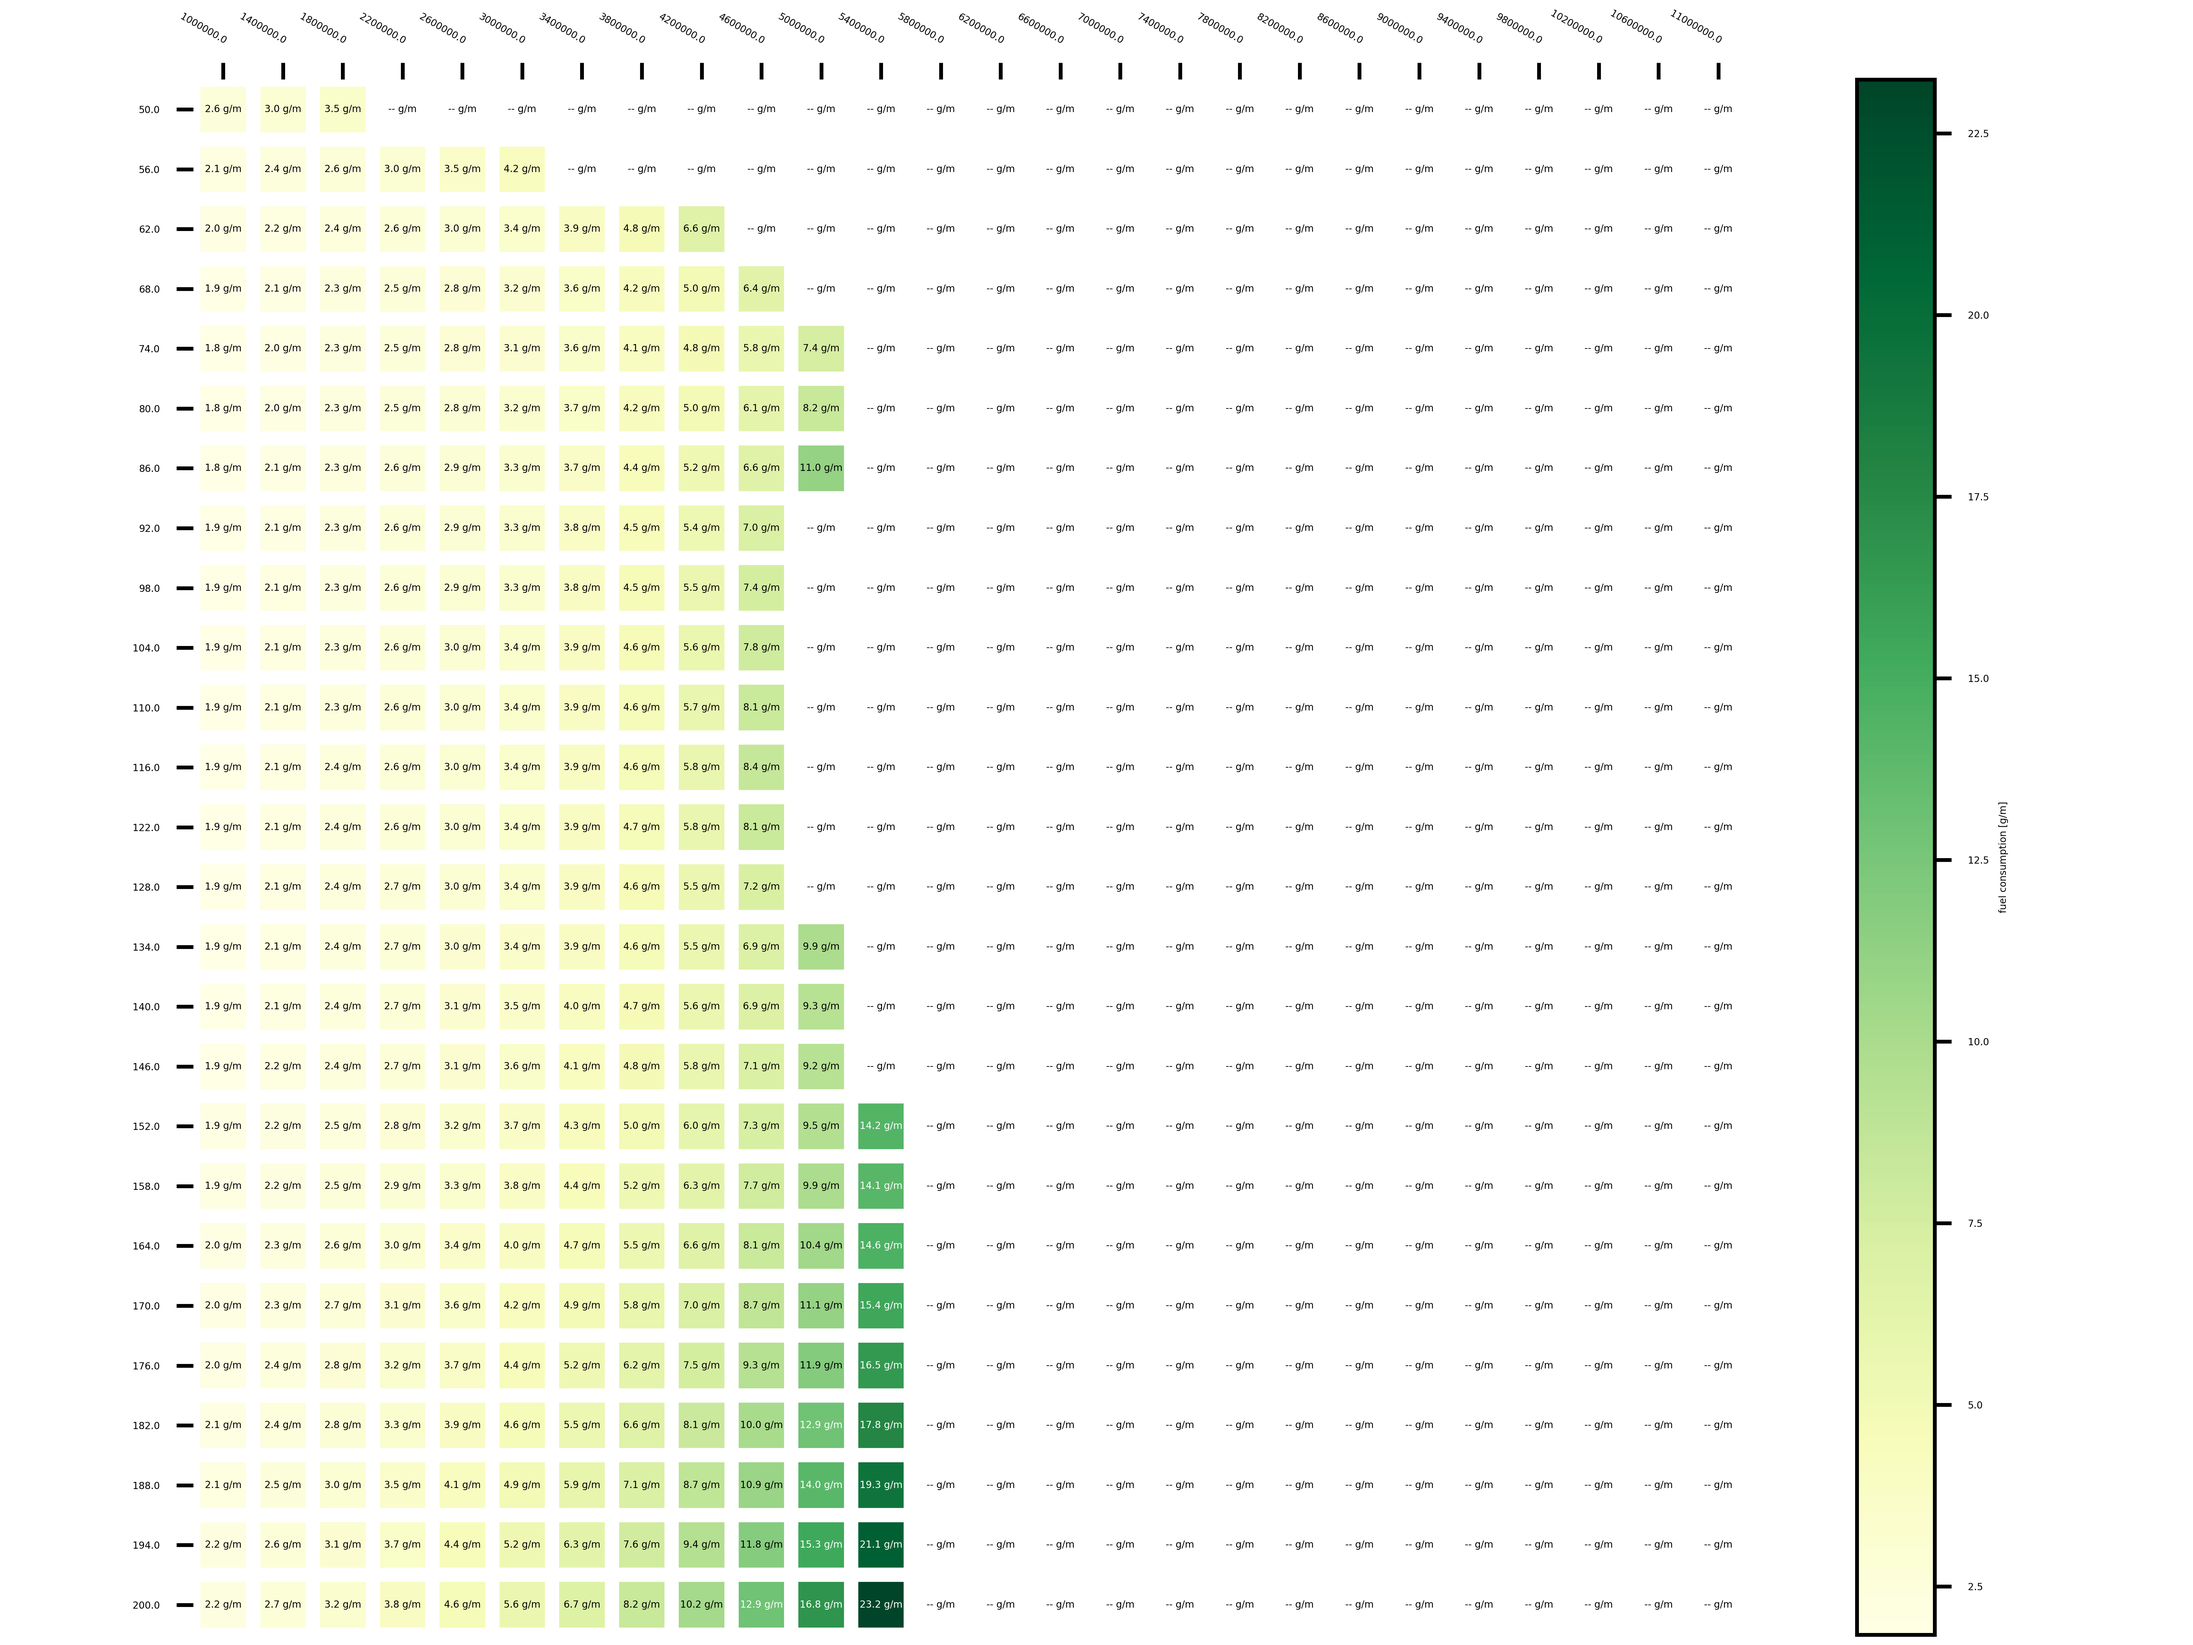
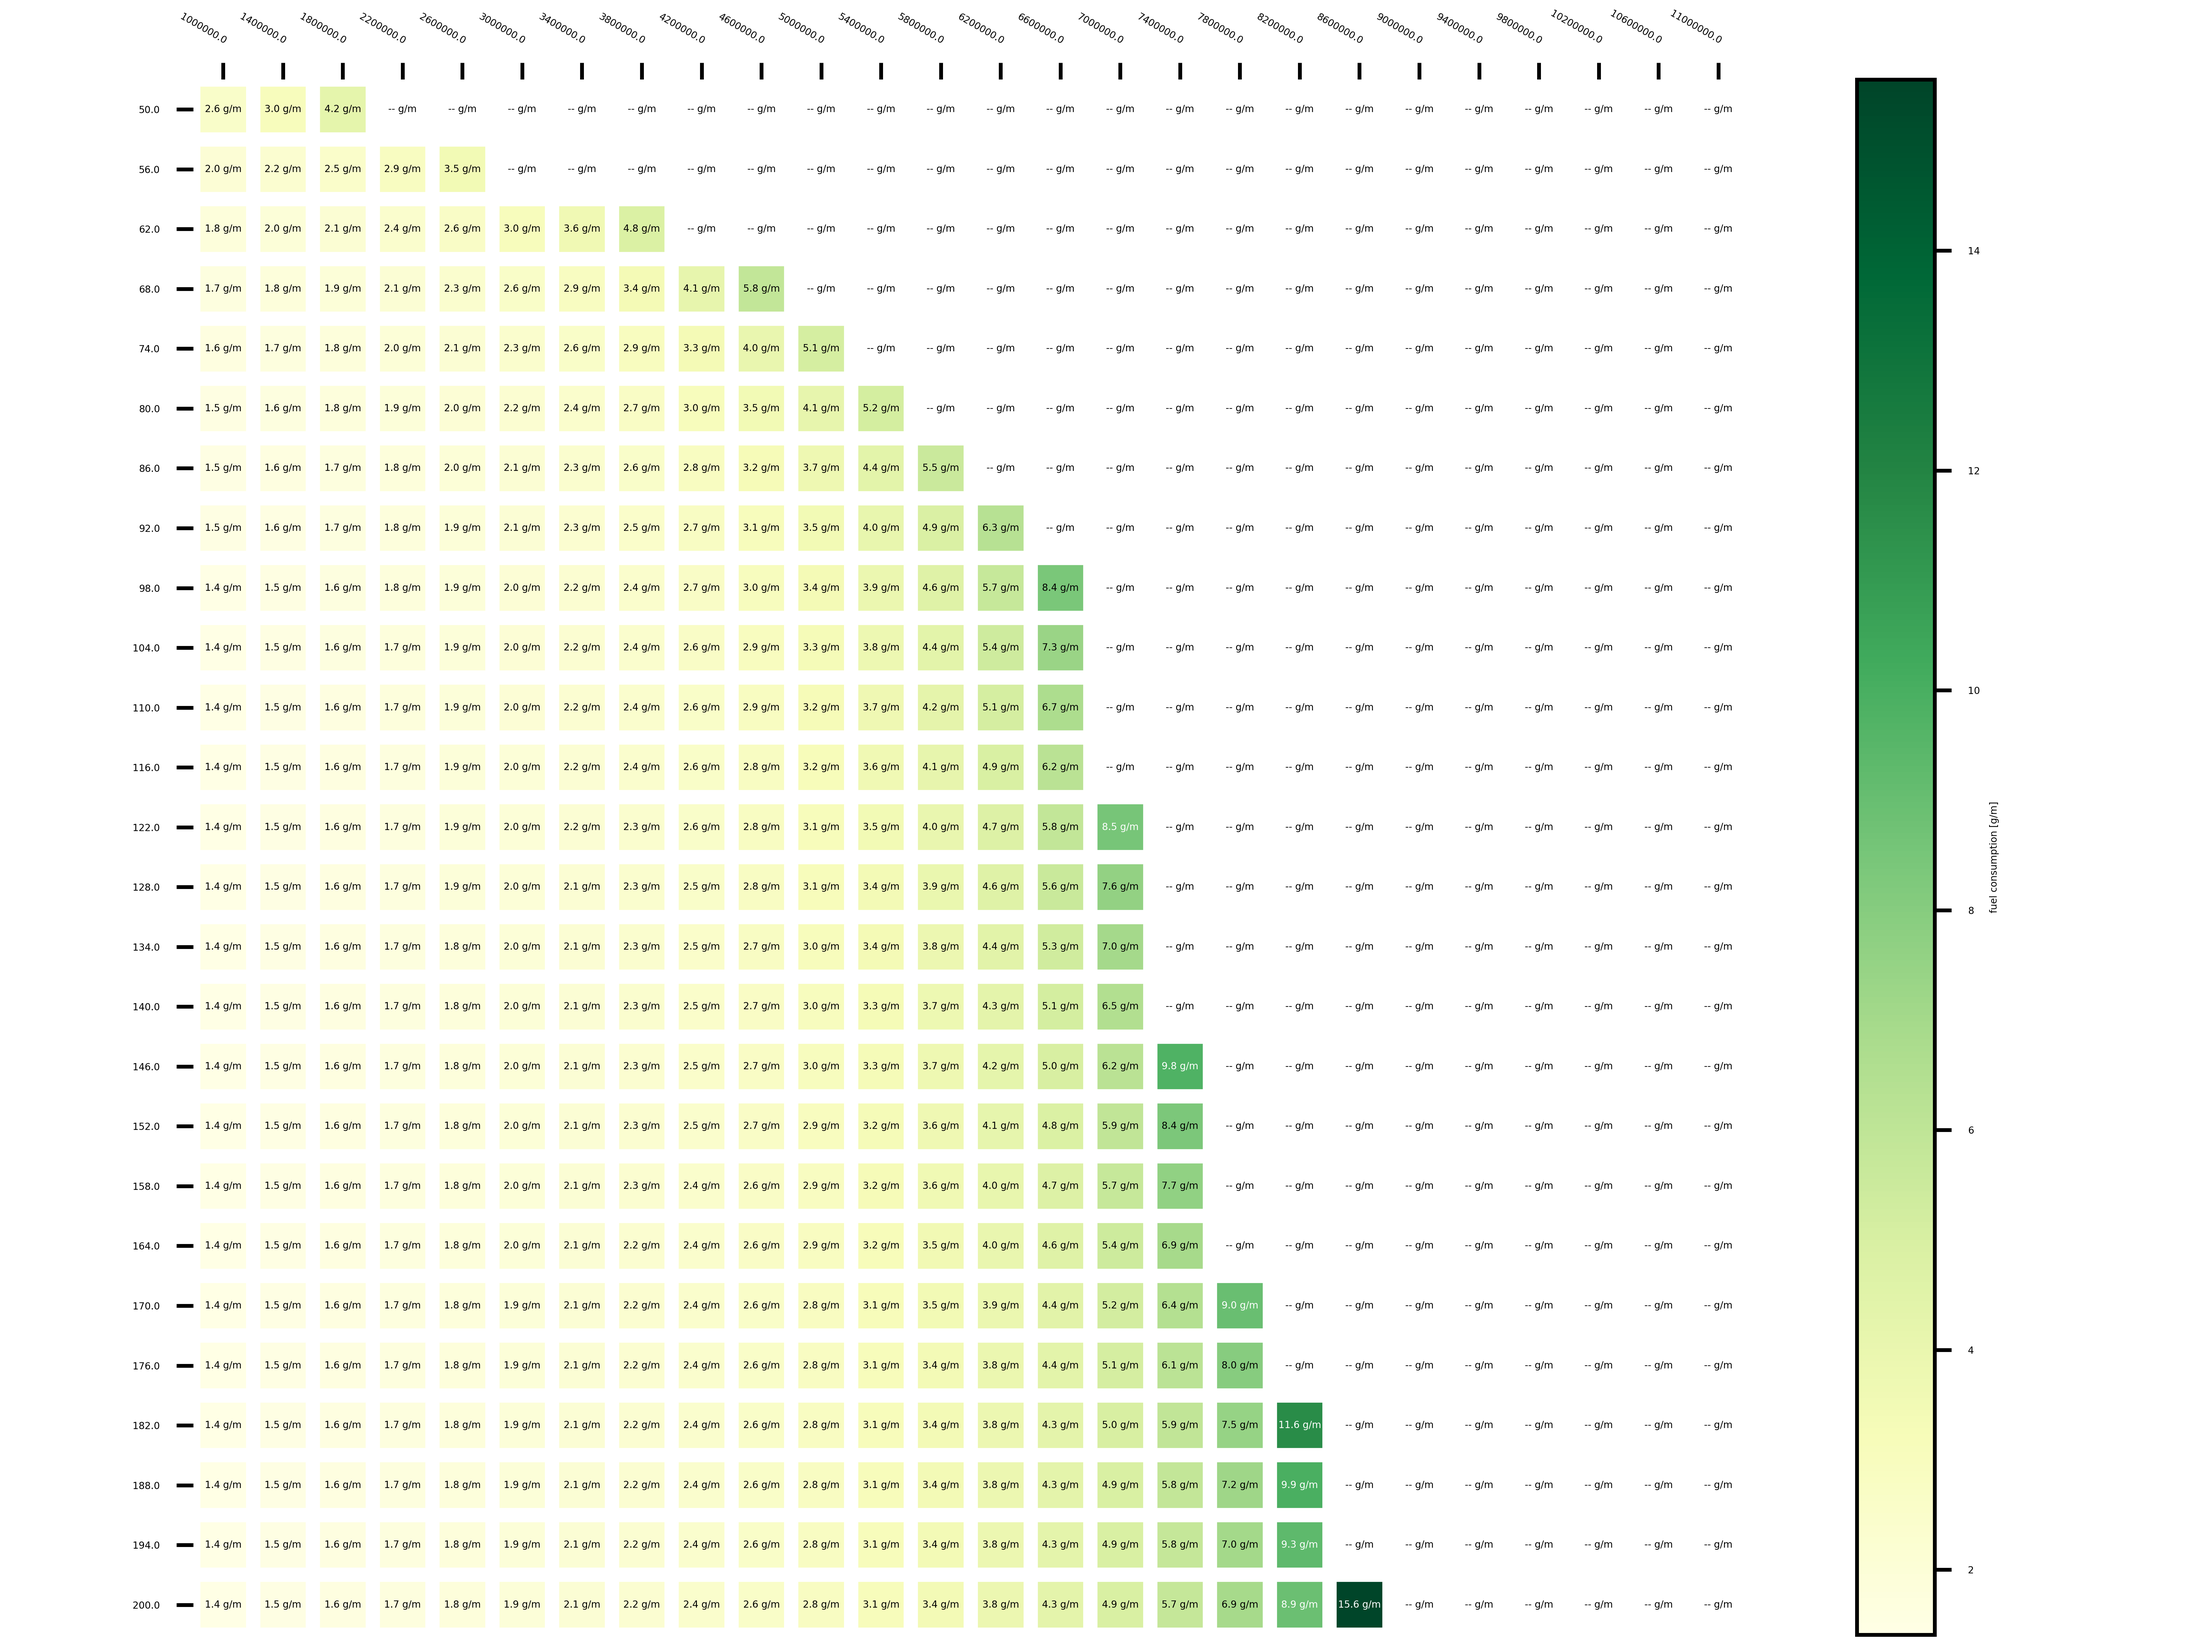
f

diff --git a/designSpace.py b/designSpace.py
@@ -199,15 +199,7 @@ if __name__ == "__main__":
     #             steps=20, speedStart=50, speedEnd=200, rangeStart=5e6, rangeEnd=20e6, figName="FeasibilityCR5")
     # Constrained: Ballon Structure - 2x, Drag - 1.5x, Fuel - 1.2 x
     # Low Constrain: Balloon - 1.25x, Drag - 1.1x, Fuel - 1.05x
-<<<<<<< HEAD
-    graph_stuff(compressionRatio=150,
-                steps=26, speedStart=50, speedEnd=200, rangeStart=1e6, rangeEnd=11e6, figName="FeasibilityCR10ConstrainAltitudeOptimized")
-=======
     for thingy in [200]:
         print(f"Running graph stuff for {thingy}")
         graph_stuff(compressionRatio=thingy,
-                steps=26, speedStart=50, speedEnd=200, rangeStart=1e6, rangeEnd=11e6, figName=f"FeasibilityCR{thingy}ConstrainAltitudeOptimized")
-
-
-
->>>>>>> 078f76530e4550a37d3c2f7ab19f93b8c074261d
+                    steps=26, speedStart=50, speedEnd=200, rangeStart=1e6, rangeEnd=11e6, figName=f"FeasibilityCR{thingy}ConstrainAltitudeOptimized")
